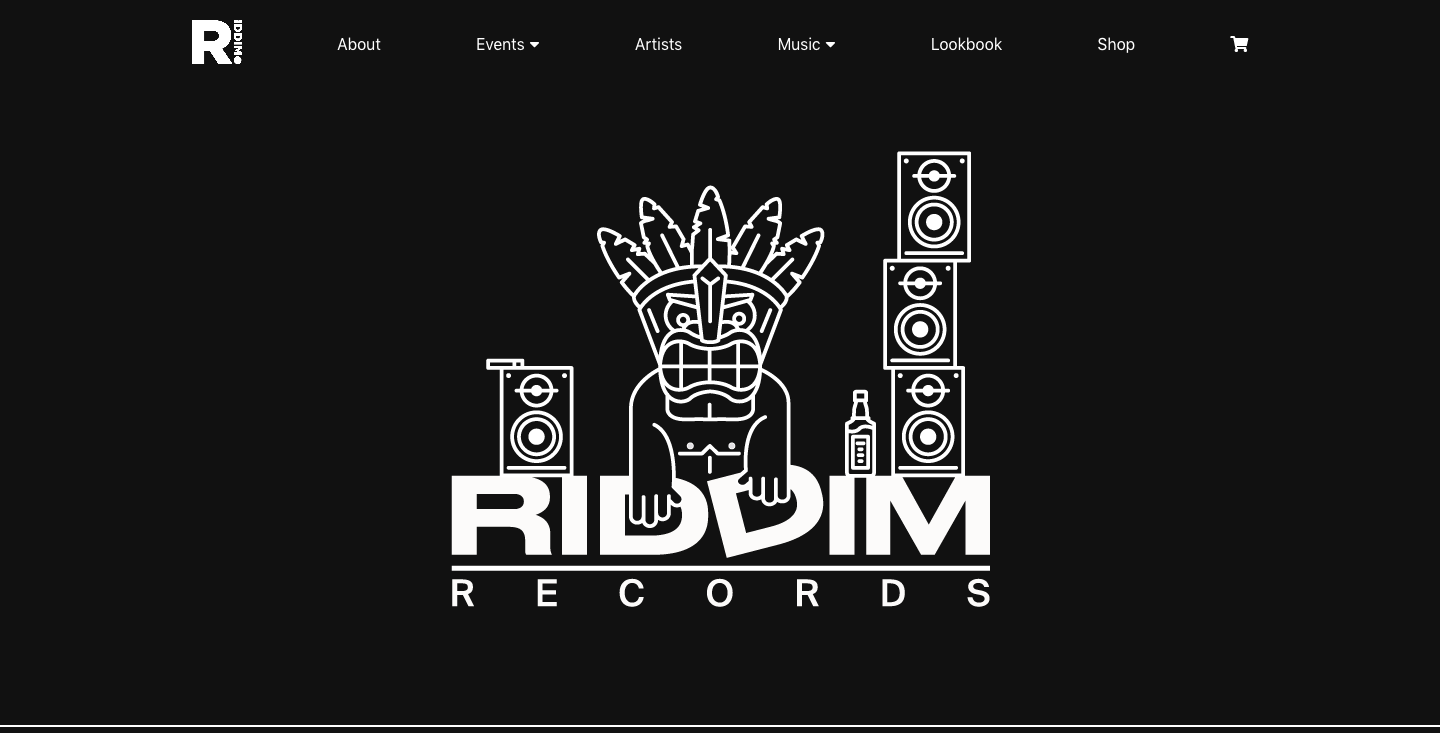
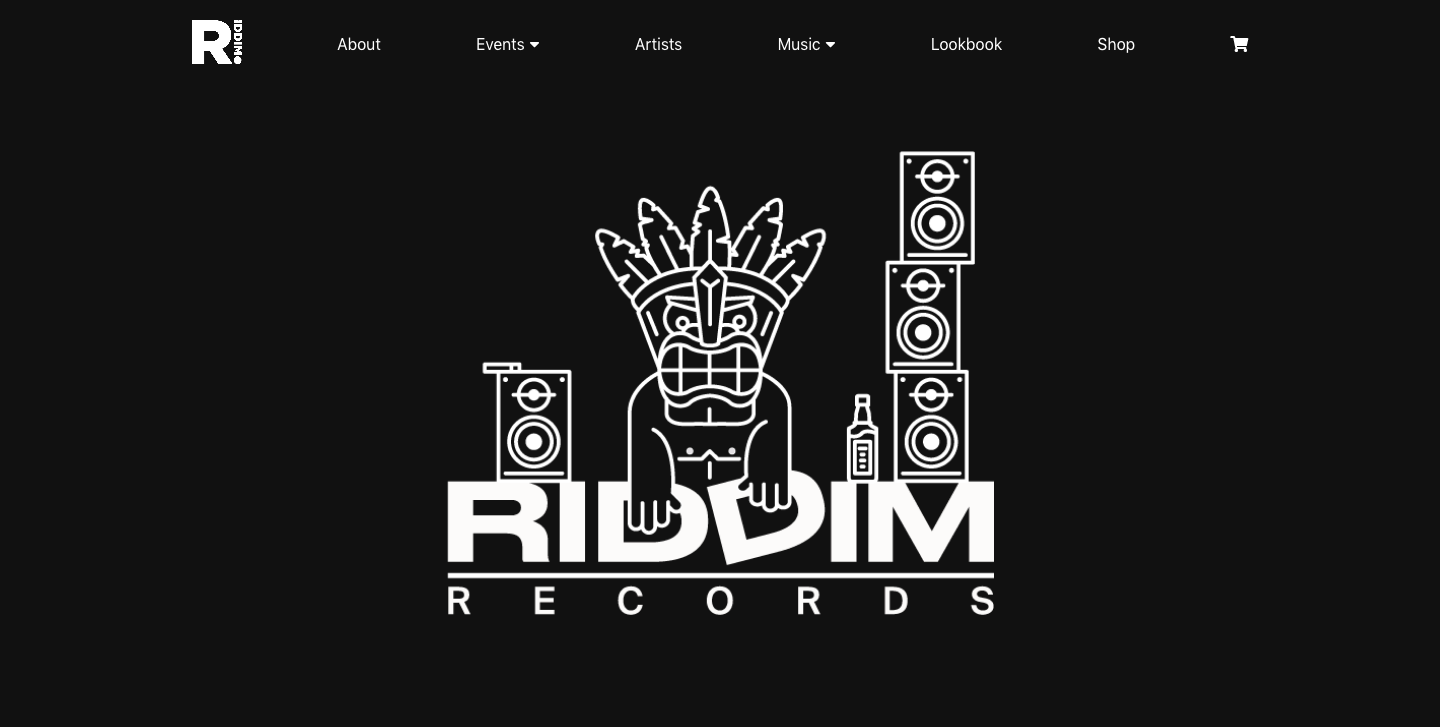
Added to project page, removed blog (for now)

Changed region(s): [[0.3125, 0.1816, 0.6875, 0.8473]]

diff --git a/src/pages/projects/index.js b/src/pages/projects/index.js
@@ -1,13 +1,14 @@
 import React from 'react';
+import PropTypes from 'prop-types';
+import { graphql } from 'gatsby';
 import styled from 'styled-components';
+import Img from 'gatsby-image';
 import Layout from '../../components/layout';
 import { Title } from '../about';
-import AcademicProjects from '../../components/projects/academicProjects';
-import visualCryptography from '../../images/projects/visual-cryptography.png';
-import matrixSolvers from '../../images/projects/matrix-solvers.png';
+// import AcademicProjects from '../../components/projects/academicProjects';
 
 export const Section = styled.section`
-  width: 50vw;
+  width: 80vw;
   margin: 0 auto 50px auto;
   @media screen and (min-width: 768px) {
     width: 60vw;
@@ -15,32 +16,100 @@ export const Section = styled.section`
   @media screen and (min-width: 992px) {
     width: 50vw;
   }
-  display: flex;
+  h2 {
+    text-align: center;
+    margin-bottom: 40px;
+  }
+  /* display: flex; */
   flex-direction: column;
   align-items: center;
   justify-items: center;
 `;
 
-const AcademicProjectsDiv = styled.div`
-  display: grid;
-  grid-template-columns: 1fr;
+const WebDevProjectsDiv = styled.div`
+  margin-bottom: 80px;
+  .webImg {
+    border: solid 1px white;
+    width: 100%;
+    margin: auto;
+  }
   @media screen and (min-width: 768px) {
-    grid-template-columns: 1fr 1fr;
-    grid-column-gap: 70px;
+    .webImg {
+      width: 80%;
+    }
   }
 `;
 
-const ProjectsPage = () => (
+const AcademicProjectsDiv = styled.div`
+  display: grid;
+  grid-template-columns: 1fr;
+  grid-row-gap: 30px;
+  .academicImg {
+    width: 80%;
+    margin: auto;
+  }
+  @media screen and (min-width: 768px) {
+    grid-template-columns: 1fr 1fr;
+    grid-column-gap: 70px;
+    .academicImg {
+      width: 100%;
+    }
+  }
+`;
+
+const ProjectsPage = ({ data }) => (
   <Layout>
     <Section>
       <Title>Projects</Title>
+      <h2>Web Development Projects</h2>
+      <WebDevProjectsDiv>
+        <a href="https://riddimrecords.co.uk" target="_blank" rel="noreferrer noopener">
+          <Img className="webImg" fluid={data.riddimImg.childImageSharp.fluid} alt="Riddim Records Website" />
+        </a>
+      </WebDevProjectsDiv>
       <h2>Academic Projects</h2>
       <AcademicProjectsDiv>
-        <AcademicProjects name="Matrix Solvers" img={matrixSolvers} />
-        <AcademicProjects name="Visual Cryptography" img={visualCryptography} />
+        <a href="https://github.com/mm13ah/matrix-solvers" target="_blank" rel="noreferrer noopener">
+          <Img className="academicImg" fluid={data.matrixImg.childImageSharp.fluid} alt="Matrix Solvers Report" />
+        </a>
+        <a href="https://github.com/mm13ah/visual-cryptography" target="_blank" rel="noreferrer noopener">
+          <Img className="academicImg" fluid={data.visualImg.childImageSharp.fluid} alt="Visual Cryptography Report" />
+        </a>
+        {/* <AcademicProjects name="Matrix Solvers" img={matrixSolvers} />
+        <AcademicProjects name="Visual Cryptography" img={visualCryptography} /> */}
       </AcademicProjectsDiv>
     </Section>
   </Layout>
 );
 
+ProjectsPage.propTypes = {
+  data: PropTypes.object.isRequired, // eslint-disable-line react/forbid-prop-types
+};
+
 export default ProjectsPage;
+
+export const query = graphql`
+  query {
+    matrixImg: file(relativePath: { eq: "projects/matrix-solvers.png" }) {
+      childImageSharp {
+        fluid(maxWidth: 1000) {
+          ...GatsbyImageSharpFluid
+        }
+      }
+    }
+    visualImg: file(relativePath: { eq: "projects/visual-cryptography.png" }) {
+      childImageSharp {
+        fluid(maxWidth: 1000) {
+          ...GatsbyImageSharpFluid
+        }
+      }
+    }
+    riddimImg: file(relativePath: { eq: "projects/riddim.png" }) {
+      childImageSharp {
+        fluid(maxWidth: 1000) {
+          ...GatsbyImageSharpFluid
+        }
+      }
+    }
+  }
+`;

diff --git a/src/pages/about.js b/src/pages/about.js
@@ -1,12 +1,12 @@
 /* eslint-disable react/forbid-prop-types */
 import React from 'react';
 import PropTypes from 'prop-types';
-import { graphql } from 'gatsby';
+import { graphql, Link } from 'gatsby';
 import Img from 'gatsby-image';
 import styled from 'styled-components';
 import Layout from '../components/layout';
 import SEO from '../components/seo';
-import cv from '../images/about/cv.png';
+// import cv from '../images/about/cv.png';
 
 export const Section = styled.section`
   width: 80vw;
@@ -58,21 +58,24 @@ const AboutText = styled.p`
   @media screen and (min-width: 992px) {
     width: 50vw;
   }
+  a {
+    color: white;
+  }
 `;
 
-const ImageContainer = styled.div`
-  width: 80vw;
-  @media screen and (min-width: 768px) {
-  width: 60vw;
-  }
-  @media screen and (min-width: 992px) {
-    width: 50vw;
-  }
-  img {
-    max-width: 100%;
-    margin: 50px auto;
-  }
-`;
+// const ImageContainer = styled.div`
+//   width: 80vw;
+//   @media screen and (min-width: 768px) {
+//   width: 60vw;
+//   }
+//   @media screen and (min-width: 992px) {
+//     width: 50vw;
+//   }
+//   img {
+//     max-width: 100%;
+//     margin: 50px auto;
+//   }
+// `;
 
 const AboutPage = ({ data }) => (
   <Layout>
@@ -90,8 +93,8 @@ const AboutPage = ({ data }) => (
       </AboutText>
       <AboutText>
         I love working with JavaScript and all the brilliant open source technologies
-        that come with it. The current technologies I use are React, Gatsby, GraphQL,
-        TypeScript and NodeJS. I have a solid foundation in writing semantic HTML, styling
+        that come with it. The current technologies I use are React, GraphQL, Gatsby and
+        TypeScript. I have a solid foundation in writing semantic HTML, styling
         and creating responsive layouts with CSS, and also previous experience using Bootstrap
         and jQuery.
       </AboutText>
@@ -102,12 +105,14 @@ const AboutPage = ({ data }) => (
       </AboutText>
       <AboutText>
         If you&apos;d like to know more about my technical experience or want to see examples of
-        my work, check out my projects. If you&apos;d like to know more about me, have a look at
-        my CV below. Otherwise, feel free to contact me.
+        my work, check out my projects. Otherwise, feel free to
+        {' '}
+        <Link to="/contact">contact me</Link>
+.
       </AboutText>
-      <ImageContainer>
+      {/* <ImageContainer>
         <img src={cv} alt="My CV" />
-      </ImageContainer>
+      </ImageContainer> */}
     </Section>
   </Layout>
 );

diff --git a/src/components/navbar/index.js b/src/components/navbar/index.js
@@ -61,7 +61,7 @@ class Navbar extends React.Component {
   }
 
   render() {
-    const { lhs, rhs } = this.props;
+    const { rhs } = this.props;
     const { showMobileMenu } = this.state;
     return (
       <Nav>
@@ -71,11 +71,11 @@ class Navbar extends React.Component {
               <Icon icon={faHome} />
             </NavLink>
           </li>
-          {lhs.map(item => (
+          {/* {lhs.map(item => (
             <li className="desktopLink" key={item.toLowerCase()}>
               <NavLink to={`/${item.toLowerCase()}`}>{item}</NavLink>
             </li>
-          ))}
+          ))} */}
           <span />
         </LHS>
         <span />
@@ -84,14 +84,15 @@ class Navbar extends React.Component {
         </RHS>
         <MobileButton toggleMobileMenu={this.toggleMobileMenu} />
         <span />
-        <MobileMenu visibility={showMobileMenu} list={[...lhs, ...rhs]} />
+        {/* <MobileMenu visibility={showMobileMenu} list={[...lhs, ...rhs]} /> */}
+        <MobileMenu visibility={showMobileMenu} list={[...rhs]} />
       </Nav>
     );
   }
 }
 
 Navbar.propTypes = {
-  lhs: PropTypes.arrayOf(PropTypes.string).isRequired,
+  // lhs: PropTypes.arrayOf(PropTypes.string).isRequired,
   rhs: PropTypes.arrayOf(PropTypes.string).isRequired,
 };
 

diff --git a/src/components/layout.js b/src/components/layout.js
@@ -48,7 +48,9 @@ const Layout = ({ children, particles, onHover }) => {
   return (
     <div>
       {particles && <ParticleStyles params={particleParams} />}
-      <Navbar lhs={['Blog']} rhs={['About', 'Projects', 'Contact']} />
+      <Navbar rhs={['About', 'Projects', 'Contact']} />
+      {' '}
+      { /* Add lhs={['Blog']}} for Blog */ }
       <main>
         { children }
       </main>
